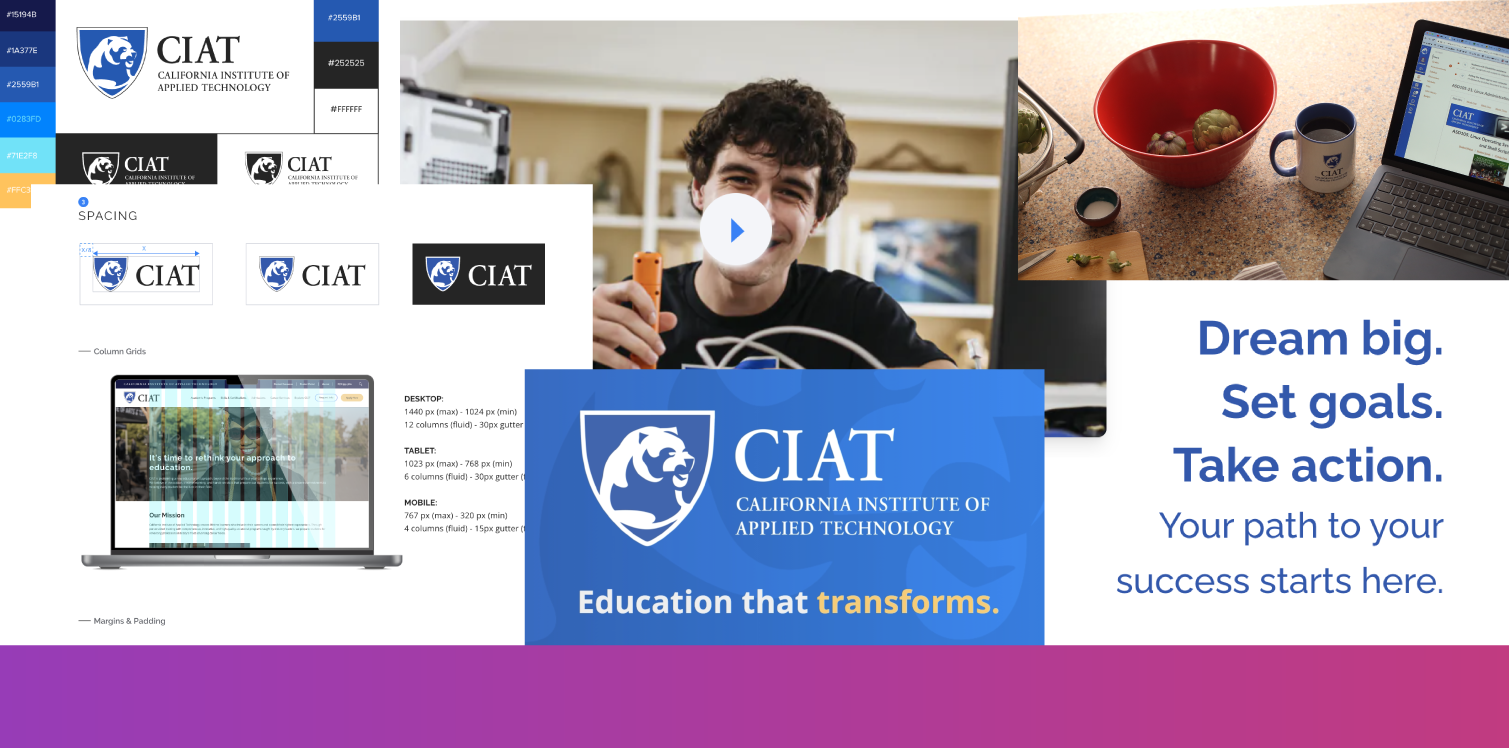
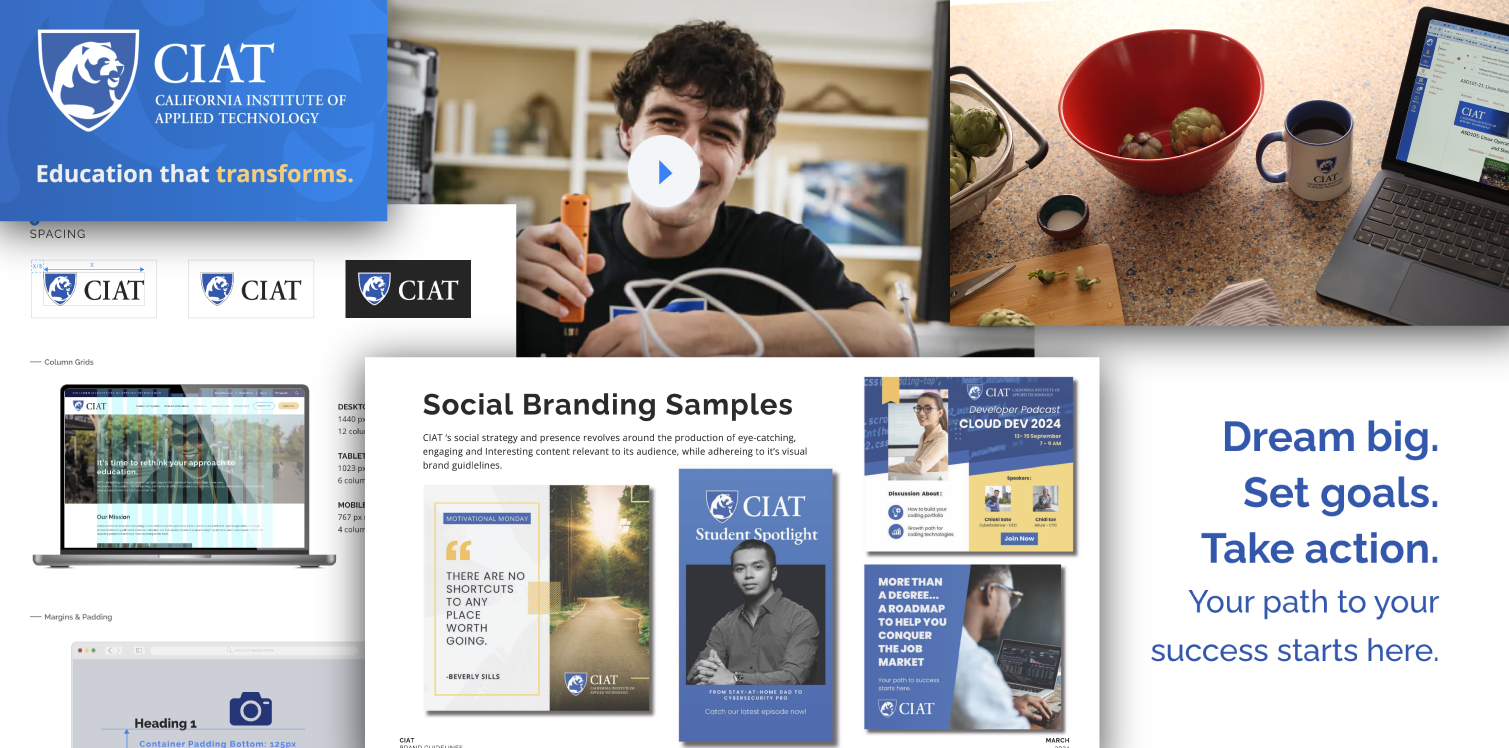
Update CIAT mid-sized case study visuals and copy.
Refresh the brand update asset, add a homepage case card image, and expand the case study hero and subtitle.

diff --git a/case-studies/mid-sized.html b/case-studies/mid-sized.html
@@ -5,7 +5,7 @@
     <meta name="viewport" content="width=device-width, initial-scale=1.0" />
     <meta name="description" content="Case study: Scaling Brand Identity — Knight Media" />
     <title>Scaling Brand Identity — Knight Media</title>
-    <link rel="stylesheet" href="../styles.css?v=5" />
+    <link rel="stylesheet" href="../styles.css?v=12" />
     <link rel="preconnect" href="https://fonts.googleapis.com" />
     <link rel="preconnect" href="https://fonts.gstatic.com" crossorigin />
     <link href="https://fonts.googleapis.com/css2?family=Inter:wght@400;500;600;700&display=swap" rel="stylesheet" />
@@ -61,10 +61,12 @@
         </div>
         <h1 style="font-size: clamp(2rem, 5vw, 3rem); margin: 0 0 1rem;">Scaling Brand Identity</h1>
         <p style="font-size: 1.25rem; color: var(--text-muted); margin: 0 0 3rem;">
-          Strategic video content and brand evolution that supported a regional expansion into 5 new markets
+          Strategic video content and brand evolution that supported a nationwide expansion into 10 new markets
         </p>
 
-        <div class="case-study-hero-image purple">[Project hero image will be added here]</div>
+        <div class="case-study-hero-image purple">
+          <img src="../assets/ciat-brand-update.png?v=8" alt="CIAT brand update" loading="lazy" />
+        </div>
 
         <section class="case-section">
           <div class="case-section-header">

diff --git a/index.html b/index.html
@@ -256,7 +256,7 @@
 
             <a class="case-card" href="case-studies/mid-sized.html">
               <div class="case-card-image purple">
-                <img src="assets/ciat-brand-update.png?v=7" alt="CIAT brand update" loading="lazy" />
+                <img src="assets/ciat-rebrand-case-study.png" alt="CIAT brand update" loading="lazy" />
               </div>
               <div class="case-card-body">
                 <p class="case-tag purple">Mid-Sized Business</p>
